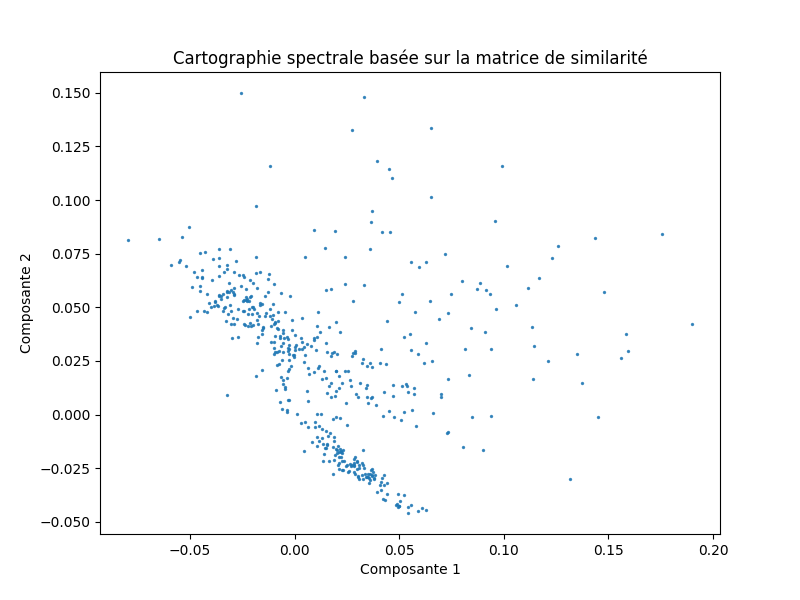
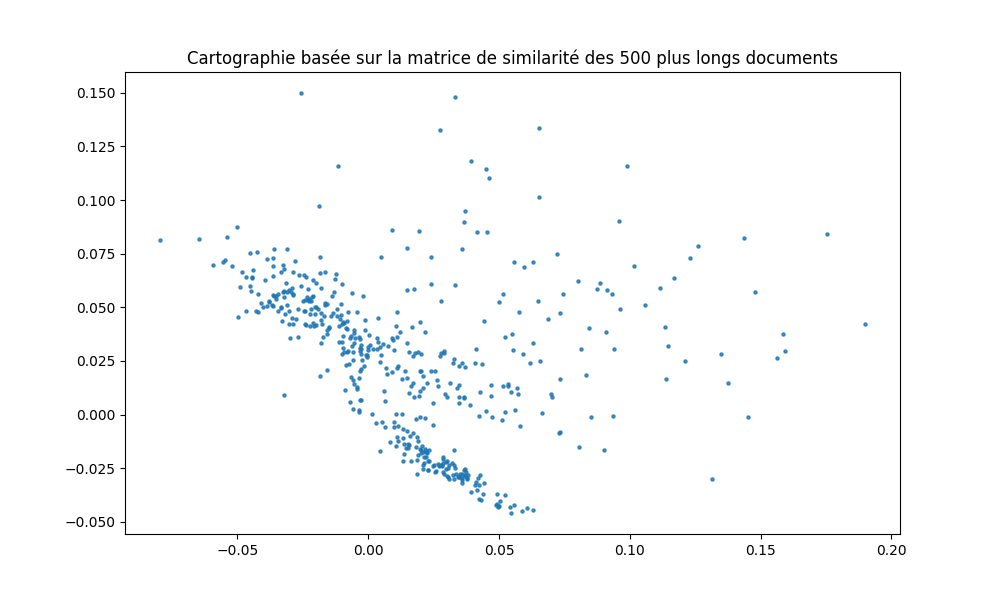
analyse pca rename du graph

diff --git a/etude_question2/analyse_pca.py b/etude_question2/analyse_pca.py
@@ -20,10 +20,9 @@ print("Vecteurs propres shape :", vecs.shape)
 x = vecs[:, 0]
 y = vecs[:, 1]
 
-plt.figure(figsize=(8, 6))
-plt.scatter(x, y, s=2, alpha=0.8)
-plt.title("Cartographie spectrale basée sur la matrice de similarité")
-plt.xlabel("Composante 1")
-plt.ylabel("Composante 2")
+plt.figure(figsize=(10, 6))
+plt.scatter(x, y, s=5, alpha=0.8)
+plt.title("Cartographie basée sur la matrice de similarité des 500 plus longs documents")
+
 plt.show()
 
